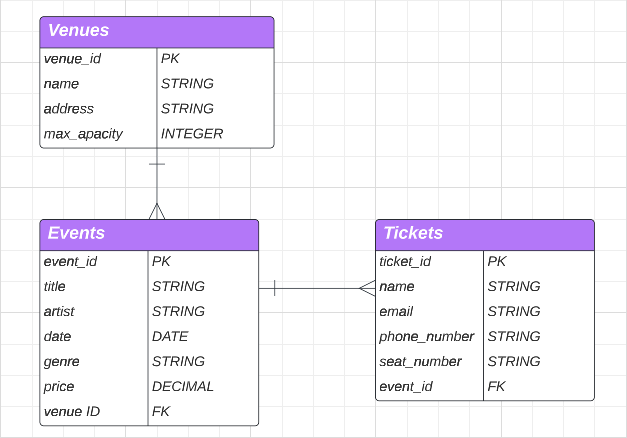
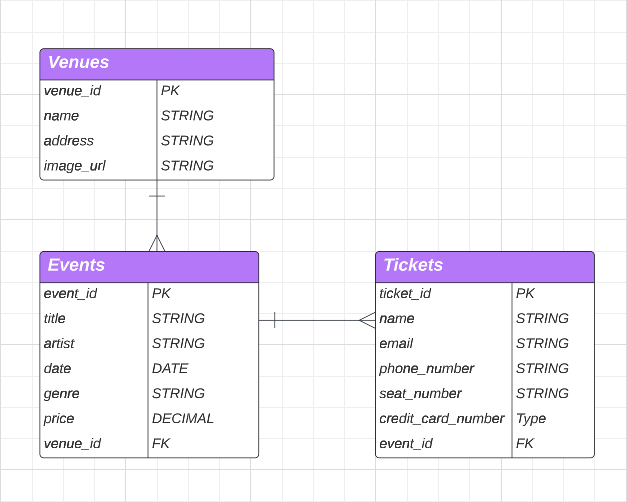
updated README

diff --git a/README.md b/README.md
@@ -1,6 +1,7 @@
 # tickit_app_backend
 
 # Tick-iT
+Welcome to the Tick-iT Demo! Tick-iT is a concert search and booking app for the Denver, CO area. This project was built using React.js on the front end and Django for our backend API. 
 
 ## The Team
 
@@ -9,8 +10,8 @@
 <details>
     <summary>Socials</summary>
 
-- [Github]
-- [LinkedIn]
+- [Github](https://github.com/windtronic)
+- [LinkedIn](linkedin.com/in/toni-hall)
 
 </details>
 
@@ -29,8 +30,8 @@
 <details>
     <summary>Socials</summary>
 
-- [Github]
-- [LinkedIn]
+- [Github](https://github.com/austinih)
+- [LinkedIn](linkedin.com/in/austinih)
 
 </details>
 
@@ -47,7 +48,7 @@ The Venues model will store all data realting to each venue that our app covers.
 - venue_id - PK
 - name - string
 - address - string
-- max_capacity - integer
+- image_url - string
 
 </details>
 
@@ -55,6 +56,15 @@ The Venues model will store all data realting to each venue that our app covers.
     <summary>Events</summary>
 
 ### Events
+The Events model will store all data realting to each upcoming event at a venue. An event is tied to a venue. Event fields are: 
+- event_id - PK
+- title - string
+- artist - string
+- date - date
+- genre - string
+- price - decimal
+- image_url - string
+- venue_id - FK
 
 </details>
 
@@ -62,6 +72,16 @@ The Venues model will store all data realting to each venue that our app covers.
     <summary>Tickets</summary>
 
 ### Tickets
-
+The Tickets model will store all data realting to each ticket purchased for an event. A ticket is tied to a specific event. Ticket instances are generated when a user purchases a ticket on the website. Ticket fields are: 
+- ticket_id - PK
+- name - string
+- email - string
+- phone_number - string
+- seat_number - string
+- credit_card_number - string
+- event_id - FK
 
 </details>
+
+## Links
+![Frontend Repo Link](https://github.com/austinih/tickit_app_frontend)
